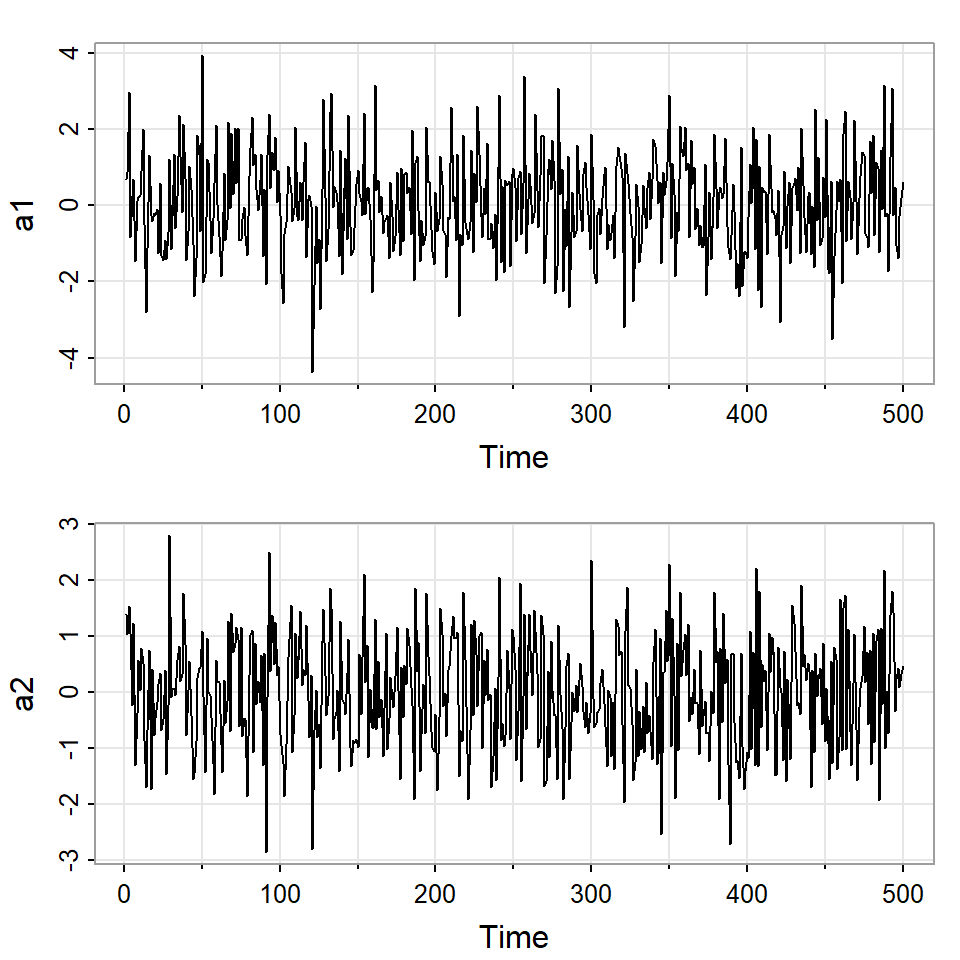
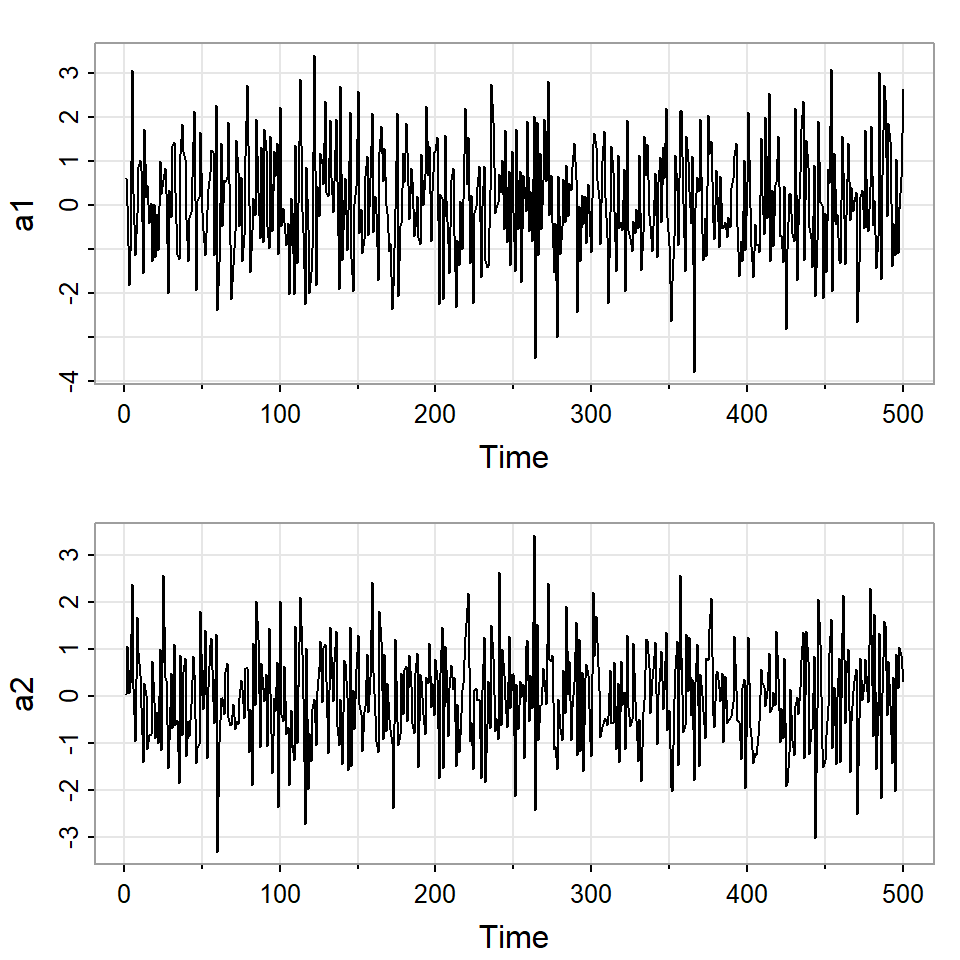
Tema02_1

diff --git a/Tema_2/presentacion1.html b/Tema_2/presentacion1.html
@@ -615,11 +615,11 @@
 <div class="columns">
 <div class="column" style="width:50%;">
 <div class="cell">
-<div class="sourceCode cell-code" id="cb4"><pre class="sourceCode numberSource r number-lines code-with-copy"><code class="sourceCode r"><span id="cb4-1"><a href=""></a>(<span class="at">r =</span> <span class="fu">round</span>(<span class="fu">acf</span>(soi, <span class="dv">6</span>, <span class="at">plot=</span><span class="cn">FALSE</span>)<span class="sc">$</span>acf[<span class="sc">-</span><span class="dv">1</span>], <span class="dv">3</span>))</span></code><button title="Copiar al portapapeles" class="code-copy-button"><i class="bi"></i></button></pre></div>
+<div class="sourceCode cell-code" id="cb4"><pre class="sourceCode numberSource r number-lines code-with-copy"><code class="sourceCode r"><span id="cb4-1"><a href=""></a>(<span class="at">r_soi =</span> <span class="fu">round</span>(<span class="fu">acf</span>(soi, <span class="dv">6</span>, <span class="at">plot=</span><span class="cn">FALSE</span>)<span class="sc">$</span>acf[<span class="sc">-</span><span class="dv">1</span>], <span class="dv">3</span>))</span></code><button title="Copiar al portapapeles" class="code-copy-button"><i class="bi"></i></button></pre></div>
 <div class="cell-output cell-output-stdout">
 <pre><code>[1]  0.604  0.374  0.214  0.050 -0.107 -0.187</code></pre>
 </div>
-<div class="sourceCode cell-code" id="cb6"><pre class="sourceCode numberSource r number-lines code-with-copy"><code class="sourceCode r"><span id="cb6-1"><a href=""></a>(<span class="at">r =</span> <span class="fu">round</span>(<span class="fu">acf</span>(rec, <span class="dv">6</span>, <span class="at">plot=</span><span class="cn">FALSE</span>)<span class="sc">$</span>acf[<span class="sc">-</span><span class="dv">1</span>], <span class="dv">3</span>))</span></code><button title="Copiar al portapapeles" class="code-copy-button"><i class="bi"></i></button></pre></div>
+<div class="sourceCode cell-code" id="cb6"><pre class="sourceCode numberSource r number-lines code-with-copy"><code class="sourceCode r"><span id="cb6-1"><a href=""></a>(<span class="at">r_rec =</span> <span class="fu">round</span>(<span class="fu">acf</span>(rec, <span class="dv">6</span>, <span class="at">plot=</span><span class="cn">FALSE</span>)<span class="sc">$</span>acf[<span class="sc">-</span><span class="dv">1</span>], <span class="dv">3</span>))</span></code><button title="Copiar al portapapeles" class="code-copy-button"><i class="bi"></i></button></pre></div>
 <div class="cell-output cell-output-stdout">
 <pre><code>[1] 0.922 0.783 0.627 0.477 0.355 0.259</code></pre>
 </div>
@@ -627,11 +627,11 @@
 </div><div class="column" style="width:50%;">
 <div class="cell">
 <div class="sourceCode cell-code" id="cb8"><pre class="sourceCode numberSource r number-lines code-with-copy"><code class="sourceCode r"><span id="cb8-1"><a href=""></a><span class="fu">par</span>(<span class="at">mfrow=</span><span class="fu">c</span>(<span class="dv">2</span>,<span class="dv">2</span>))</span>
-<span id="cb8-2"><a href=""></a><span class="fu">plot</span>(<span class="fu">lag</span>(soi,<span class="sc">-</span><span class="dv">1</span>), soi); <span class="fu">legend</span>(<span class="st">'topleft'</span>, <span class="at">legend=</span>r[<span class="dv">1</span>],<span class="at">cex=</span><span class="fl">0.5</span> )</span>
-<span id="cb8-3"><a href=""></a><span class="fu">plot</span>(<span class="fu">lag</span>(soi,<span class="sc">-</span><span class="dv">6</span>), soi); <span class="fu">legend</span>(<span class="st">'topleft'</span>, <span class="at">legend=</span>r[<span class="dv">6</span>],<span class="at">cex=</span><span class="fl">0.5</span>)</span>
+<span id="cb8-2"><a href=""></a><span class="fu">plot</span>(<span class="fu">lag</span>(soi,<span class="sc">-</span><span class="dv">1</span>), soi); <span class="fu">legend</span>(<span class="st">'topleft'</span>, <span class="at">legend=</span>r_soi[<span class="dv">1</span>],<span class="at">cex=</span><span class="fl">0.5</span> )</span>
+<span id="cb8-3"><a href=""></a><span class="fu">plot</span>(<span class="fu">lag</span>(soi,<span class="sc">-</span><span class="dv">6</span>), soi); <span class="fu">legend</span>(<span class="st">'topleft'</span>, <span class="at">legend=</span>r_soi[<span class="dv">6</span>],<span class="at">cex=</span><span class="fl">0.5</span>)</span>
 <span id="cb8-4"><a href=""></a></span>
-<span id="cb8-5"><a href=""></a><span class="fu">plot</span>(<span class="fu">lag</span>(rec,<span class="sc">-</span><span class="dv">1</span>), rec); <span class="fu">legend</span>(<span class="st">'topleft'</span>, <span class="at">legend=</span>r[<span class="dv">1</span>],<span class="at">cex=</span><span class="fl">0.5</span>)</span>
-<span id="cb8-6"><a href=""></a><span class="fu">plot</span>(<span class="fu">lag</span>(rec,<span class="sc">-</span><span class="dv">6</span>), rec); <span class="fu">legend</span>(<span class="st">'topleft'</span>, <span class="at">legend=</span>r[<span class="dv">6</span>],<span class="at">cex=</span><span class="fl">0.5</span>)</span></code><button title="Copiar al portapapeles" class="code-copy-button"><i class="bi"></i></button></pre></div>
+<span id="cb8-5"><a href=""></a><span class="fu">plot</span>(<span class="fu">lag</span>(rec,<span class="sc">-</span><span class="dv">1</span>), rec); <span class="fu">legend</span>(<span class="st">'topleft'</span>, <span class="at">legend=</span>r_rec[<span class="dv">1</span>],<span class="at">cex=</span><span class="fl">0.5</span>)</span>
+<span id="cb8-6"><a href=""></a><span class="fu">plot</span>(<span class="fu">lag</span>(rec,<span class="sc">-</span><span class="dv">6</span>), rec); <span class="fu">legend</span>(<span class="st">'topleft'</span>, <span class="at">legend=</span>r_rec[<span class="dv">6</span>],<span class="at">cex=</span><span class="fl">0.5</span>)</span></code><button title="Copiar al portapapeles" class="code-copy-button"><i class="bi"></i></button></pre></div>
 <div class="cell-output-display">
 <div>
 <figure>
@@ -798,6 +798,9 @@ Autocorrelations of series 'X', by lag
 </div></li>
 </ol>
 </div>
+</section>
+<section id="estacionariedad-débil" class="slide level2">
+<h2>Estacionariedad débil</h2>
 <div id="def-estacionariedadconjunta2" class="theorem definition">
 <p><span class="theorem-title"><strong>Definición 2 (Estacionariedad débil)</strong></span> Sea <span class="math inline">\(X_t=(X_{t1},...,X_{tk})'\)</span> un vector <span class="math inline">\(k \times 1\)</span> de series temporales. Se dice que <span class="math inline">\(X_t\)</span> es <span class="alert">débilmente estacionario</span> si:</p>
 <ul>
@@ -1129,15 +1132,15 @@ donde <span class="math inline">\(\pi(B)=1-\sum\limits_{j=0}^\infty \pi_j B\)</s
 <div class="cell-output cell-output-stdout">
 <pre><code>[1] "Covariance matrix:"
       a1    a2
-a1 1.402 0.655
-a2 0.655 0.933
+a1 1.571 0.796
+a2 0.796 1.033
 CCM at lag:  0 
       [,1]  [,2]
-[1,] 1.000 0.572
-[2,] 0.572 1.000
+[1,] 1.000 0.625
+[2,] 0.625 1.000
 Simplified matrix: 
 CCM at lag:  1 
-- . 
+. . 
 . . 
 CCM at lag:  2 
 . . 
@@ -1242,14 +1245,14 @@ CCM at lag:  4
 <div class="cell">
 <div class="sourceCode cell-code" id="cb26"><pre class="sourceCode numberSource r number-lines code-with-copy"><code class="sourceCode r"><span id="cb26-1"><a href=""></a>sig<span class="ot">=</span><span class="fu">diag</span>(<span class="dv">3</span>)</span>
 <span id="cb26-2"><a href=""></a>z<span class="ot">=</span><span class="fu">mvrnorm</span>(<span class="dv">200</span>,<span class="fu">rep</span>(<span class="dv">0</span>,<span class="dv">3</span>),sig)</span>
-<span id="cb26-3"><a href=""></a><span class="fu">mq</span>(z,<span class="dv">4</span>)</span></code><button title="Copiar al portapapeles" class="code-copy-button"><i class="bi"></i></button></pre></div>
+<span id="cb26-3"><a href=""></a><span class="fu">mq</span>(z, <span class="at">lag =</span> <span class="dv">4</span>)</span></code><button title="Copiar al portapapeles" class="code-copy-button"><i class="bi"></i></button></pre></div>
 <div class="cell-output cell-output-stdout">
 <pre><code>Ljung-Box Statistics:  
        m       Q(m)     df    p-value
-[1,]  1.00      5.31    9.00     0.81
-[2,]  2.00     22.58   18.00     0.21
-[3,]  3.00     32.31   27.00     0.22
-[4,]  4.00     50.93   36.00     0.05</code></pre>
+[1,]  1.00      9.92    9.00     0.36
+[2,]  2.00     19.66   18.00     0.35
+[3,]  3.00     26.55   27.00     0.49
+[4,]  4.00     34.62   36.00     0.53</code></pre>
 </div>
 
 </div>
